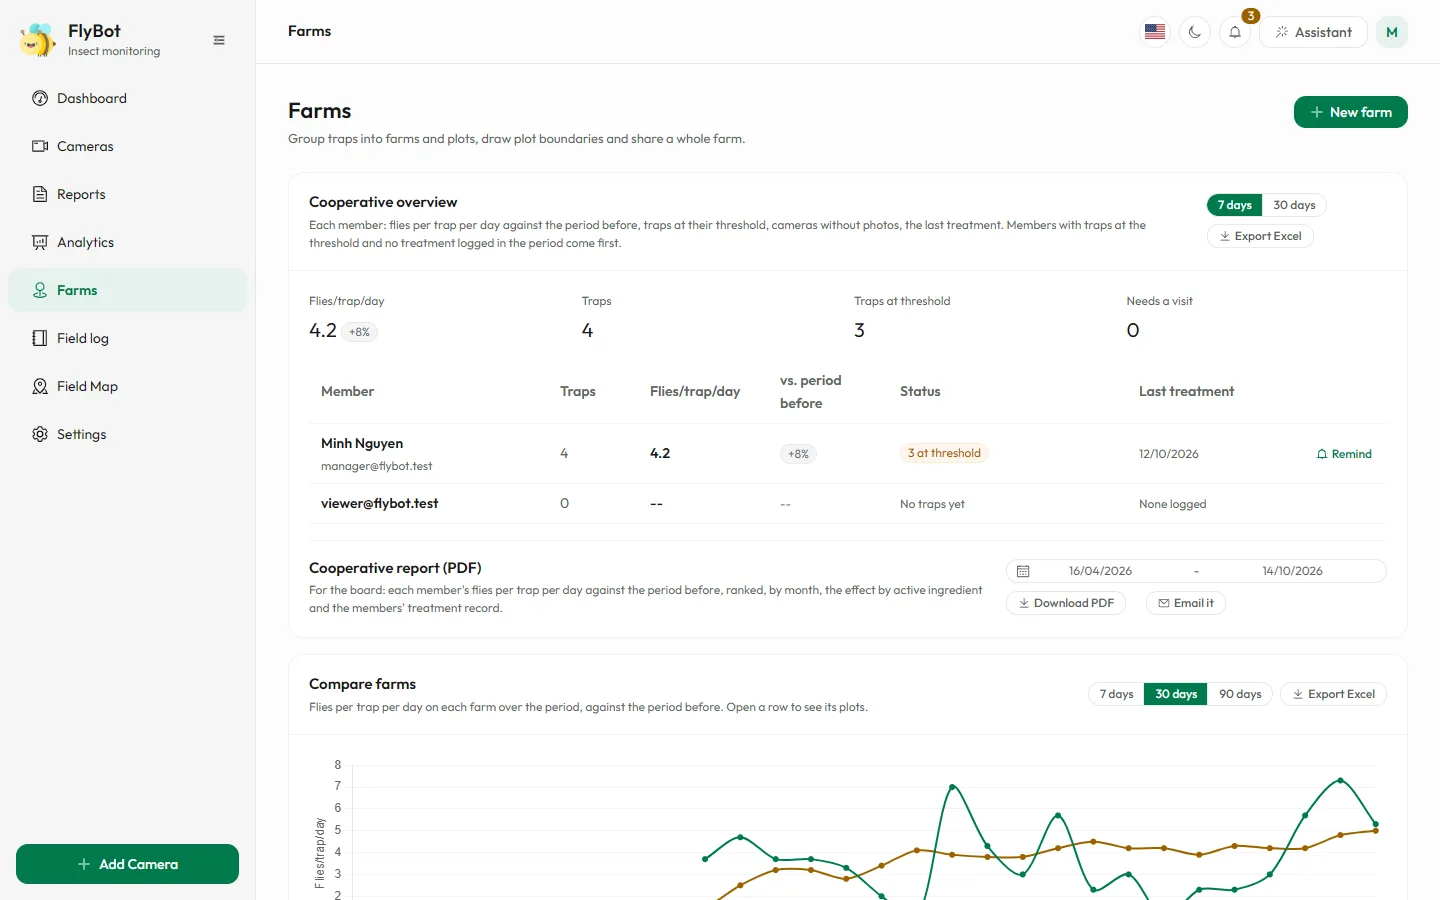
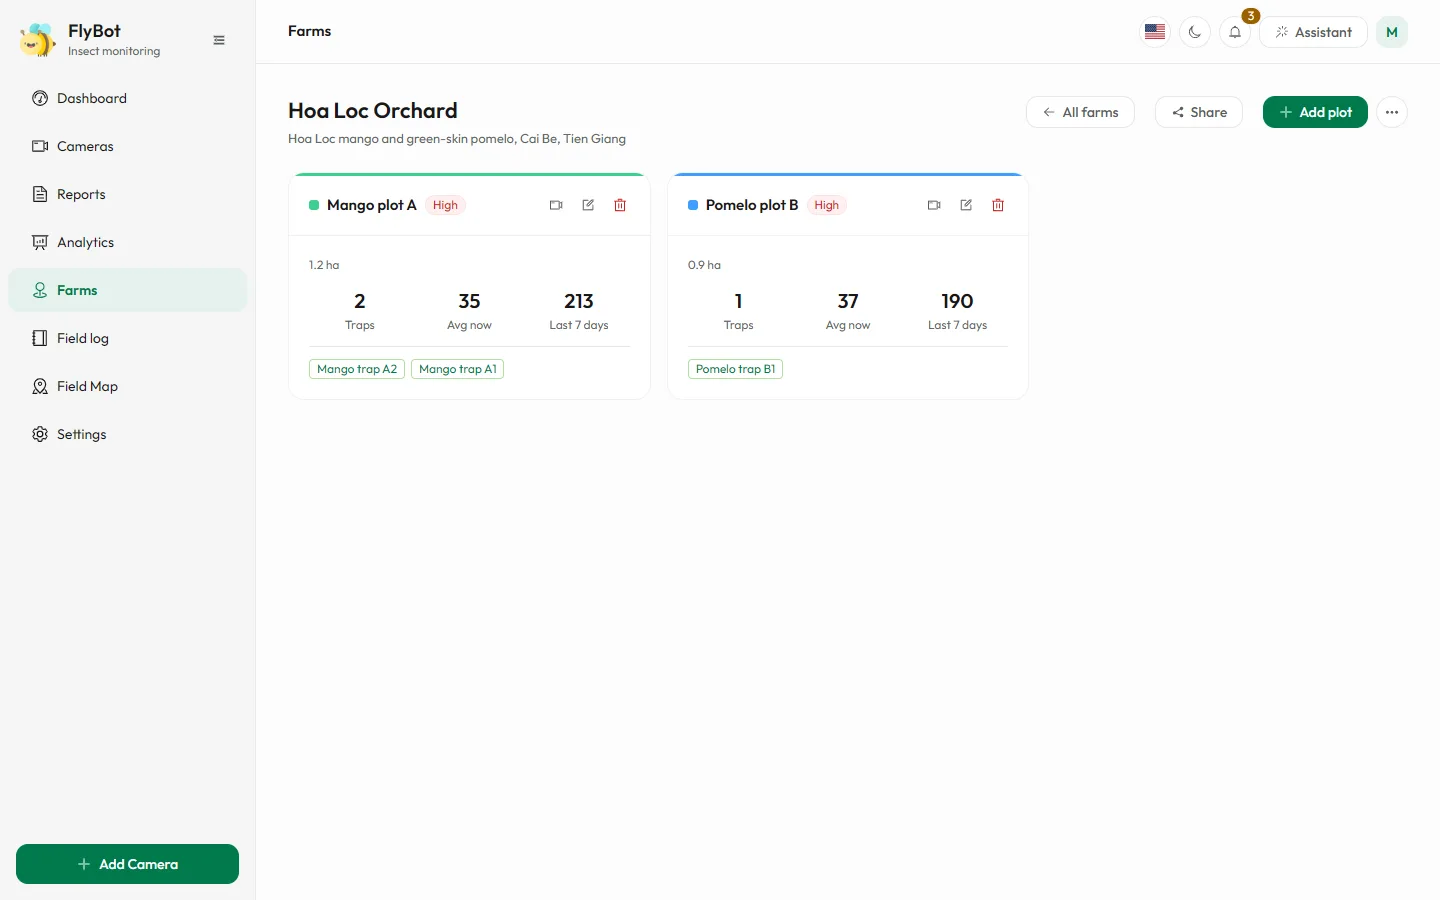
Guide: a Cooperatives section; the farm picture fixed
Five steps for a cooperative's board (organization and invitations,
traps, follow-up and reminders, field logs, the board report) in both
languages with pictures; the cooperative lines move out of Sharing.
shoot.mjs opens a farm from its own card again (the comparison card
above also names it), so the farm picture shows its plots.

diff --git a/client/src/pages/Manual.vue b/client/src/pages/Manual.vue
@@ -23,7 +23,12 @@ const IMAGES = {
   'ai.forecast': ['diagnosis', 'weather-outlook'],
   'farms.plots': ['farms', 'farm-map'],
   'farms.map': ['map'],
-  'farms.sharing': ['organizations', 'org-overview'],
+  'farms.sharing': ['organizations'],
+  'coop.setup': ['organizations'],
+  'coop.traps': ['farm-map'],
+  'coop.follow': ['org-overview'],
+  'coop.log': ['assistant-treatment', 'log-import'],
+  'coop.report': ['org-overview'],
   'farms.log': ['logbook', 'logbook-ingredients', 'log-import'],
   'alerts.smart': ['notifications'],
   'alerts.channels': ['alert-settings'],

diff --git a/CHANGELOG.md b/CHANGELOG.md
@@ -10,6 +10,8 @@
 - **Usage** (Settings, administration): people active over 7 and 30 days, accounts, the features used over the last 30 days (log entries by form, assistant and import, card changes, assistant questions, data downloads, cooperative reminders and reports), the cameras, and twelve weeks of active people, log entries and photos. Counted from what FlyBot already stores; no outside tracking, no content. GET /api/admin/usage.
 
 ### Guide and tour
+- A **Cooperatives** section in the guide: setting up the organization and inviting growers, bringing their traps in, following them up and reminding them, their field logs, and the report for the board (Vietnamese and English, with pictures).
+- The farm picture in the guide shows a farm's plots again (it had shown the farm list since the cooperative cards were added).
 - The tour videos (99 s) show the To do card, the cooperative overview, the log import and voice logging; the guide pictures show the To do card.
 
 ### Code
